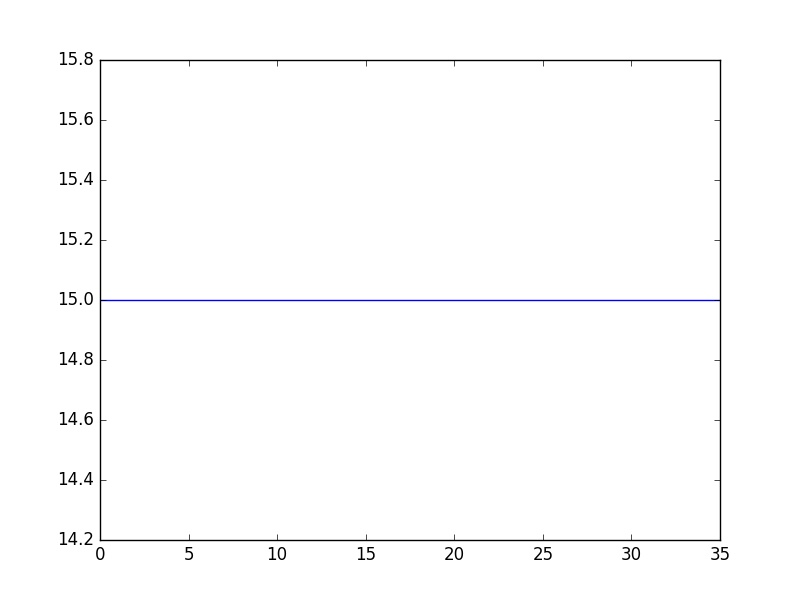
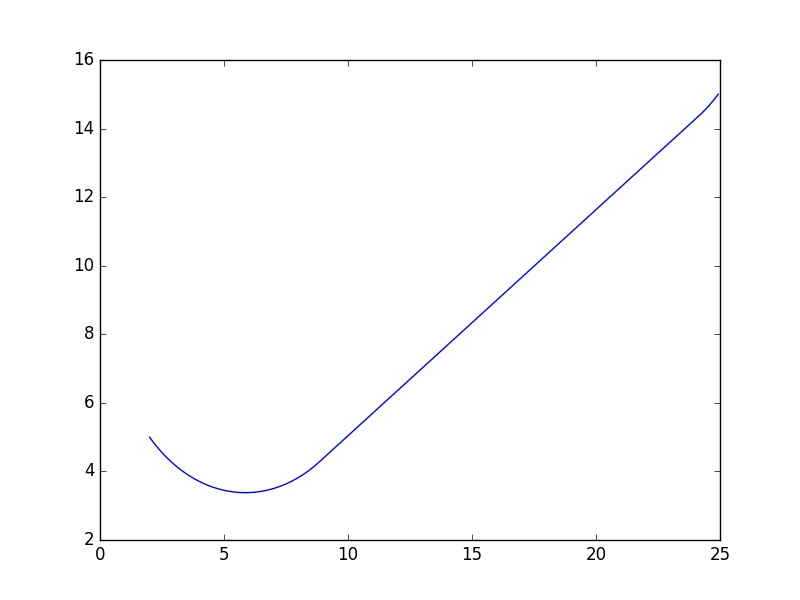
problem with wrong rspath solved; reason: wrong rotation matrix (matlab: angle2dcm)

diff --git a/ReedsShepp/HybridAStar.h b/ReedsShepp/HybridAStar.h
@@ -15,6 +15,7 @@
 
 double mod2pi(double x)
 {
+
     double v = x;
     while (std::fabs(v) >= 2 * M_PI)
     {
@@ -23,9 +24,10 @@ double mod2pi(double x)
         else
             v += 2 * M_PI;
     }
+
     if (v < -M_PI)
         v += 2 * M_PI;
-    else
+    else if (v > M_PI)
         v -= 2 * M_PI;
 
     return v;
@@ -71,18 +73,35 @@ bool AnalysticExpansion(Eigen::Vector3d Start, Eigen::Vector3d End, Vehicle veh,
 {
     bool isok = true;
     bool isCollision = false;
-
+    // 将起点转换到原点计算轨迹，变换坐标系了
     Eigen::Vector3d pvec(End - Start);
     double pos_x = pvec[0];
     double pos_y = pvec[1];
     double pos_phi = Start[2];
     pos_phi = mod2pi(pos_phi);
-    Eigen::Matrix3d dcm;
-    dcm << cos(pos_phi), -sin(pos_phi), 0,
-        sin(pos_phi), cos(pos_phi), 0,
-        0, 0, 1;
 
-    Eigen::Vector3d tvec = dcm * Eigen::Vector3d(pos_x, pos_y, 0);
+    /* 
+    replaced angle2dcm in matlab: (pos_phi, 0, 0)
+
+        dcm(1,1,:) = cang(:,2).*cang(:,1); -> cos(r1)
+        dcm(1,2,:) = cang(:,2).*sang(:,1); -> sin(r1)
+        dcm(1,3,:) = -sang(:,2); -> 0
+        dcm(2,1,:) = sang(:,3).*sang(:,2).*cang(:,1) - cang(:,3).*sang(:,1); -> -sin(r1)
+        dcm(2,2,:) = sang(:,3).*sang(:,2).*sang(:,1) + cang(:,3).*cang(:,1); -> cos(r1)
+        dcm(2,3,:) = sang(:,3).*cang(:,2); -> 0
+        dcm(3,1,:) = cang(:,3).*sang(:,2).*cang(:,1) + sang(:,3).*sang(:,1); -> 0
+        dcm(3,2,:) = cang(:,3).*sang(:,2).*sang(:,1) - sang(:,3).*cang(:,1); -> 0
+        dcm(3,3,:) = cang(:,3).*cang(:,2); -> 1
+    
+    * note: this is different from the normal roration matrix -> [[cos, -sin, 0], [sin, cos, 0], [0, 0, 1]]
+    */
+
+    Eigen::Matrix3d dcm; // 起点start坐标系在基坐标系下的方向余弦矩阵
+    dcm << cos(pos_phi), sin(pos_phi), 0,
+        -sin(pos_phi), cos(pos_phi), 0,
+        0, 0, 1;
+    // dcm*x 表示将基坐标中的x表示到旋转后的坐标系中，即计算坐标旋转后各向量在新坐标中的表示
+    Eigen::Vector3d tvec = dcm * Eigen::Vector3d(pos_x, pos_y, 0); // 计算坐标旋转后各向量在起点start坐标中的表示
     pos_x = tvec[0];
     pos_y = tvec[1];
 
@@ -92,8 +111,9 @@ bool AnalysticExpansion(Eigen::Vector3d Start, Eigen::Vector3d End, Vehicle veh,
     std::vector<std::pair<Point2D, Point2D>> obstline = cfg.ObstLine;
 
     rspath = FindRSPath(pos_x, pos_y, pvec[2], veh);
-    exportPath(rspath, veh, Start);
-    std::vector<int> types = rspath.type_;
+
+    std::vector<int>
+        types = rspath.type_;
     double t = rmin * rspath.t_;
     double u = rmin * rspath.u_;
     double v = rmin * rspath.v_;
@@ -145,7 +165,7 @@ bool AnalysticExpansion(Eigen::Vector3d Start, Eigen::Vector3d End, Vehicle veh,
             if (idx % 5 == 0)
             {
                 Eigen::Vector3d tvec(px, py, pth);
-                // std::cerr << px << " " << py << " " << std::endl;
+
                 isCollision = VehicleCollisionCheck(tvec, obstline, veh);
                 if (isCollision)
                 {
@@ -488,7 +508,7 @@ void getFinalPath(RSPath rspath, std::vector<Node> Close, Vehicle veh, Configura
         }
     }
 }
-void HybridAStar(Eigen::Vector3d Start, Eigen::Vector3d End, Vehicle veh, Configuration cfg, std::vector<double> &x_vec, std::vector<double> &y_vec, std::vector<double> &th_vec, std::vector<double> &D_vec, std::vector<double> &delta_vec)
+void HybridAStar(Eigen::Vector3d &Start, Eigen::Vector3d &End, Vehicle &veh, Configuration &cfg, std::vector<double> &x_vec, std::vector<double> &y_vec, std::vector<double> &th_vec, std::vector<double> &D_vec, std::vector<double> &delta_vec)
 {
     float mres = cfg.MOTION_RESOLUTION;
 
@@ -509,6 +529,7 @@ void HybridAStar(Eigen::Vector3d Start, Eigen::Vector3d End, Vehicle veh, Config
 
     while (!Open.empty())
     {
+        std::cerr << Close.size() << std::endl;
         Node wknode;
         wknode.update(PopNode(Open, cfg));
         int idx1 = -1;

diff --git a/ReedsShepp/main.cpp b/ReedsShepp/main.cpp
@@ -98,8 +98,8 @@ int main(int argc, char **argv)
   config.H_COST = 10.0;
 
   // 5. set start and end point
-  Eigen::Vector3d start_point(0, 15, 0);
-  Eigen::Vector3d end_point(35, 15, 0);
+  Eigen::Vector3d start_point(2, 5, M_PI / -4.0);
+  Eigen::Vector3d end_point(25, 15, M_PI / 4.0);
 
   // 6. find path
   std::vector<std::vector<double>> ObstMap = GridAStar(config.ObstList, {end_point[0], end_point[1]}, config.XY_GRID_RESOLUTION, minx, miny, maxx, maxy);

diff --git a/ReedsShepp/PathFunction.h b/ReedsShepp/PathFunction.h
@@ -10,6 +10,7 @@
 #include <common.h>
 RSPath FindRSPath(double x, double y, double phi, Vehicle veh)
 {
+    // std::cerr << x << " " << y
     double rmin = veh.MIN_CIRCLE; // minimum turning radius
     x = x / rmin;
     y = y / rmin;
